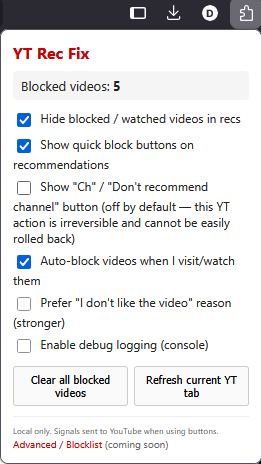
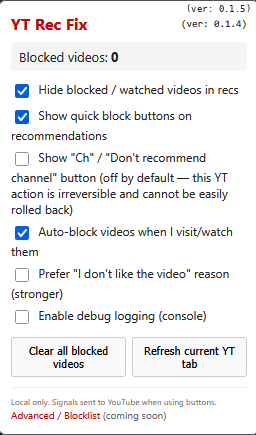
chore: bump to 0.1.5 + show addon version in popup header
- Bump version to 0.1.5 in manifest + package files
- Add version display '(ver: X.Y.Z)' top-right in popup (dynamically from manifest)
- Update images/addon_03.png screenshot to show the new version tag
- Expand README Usage section with popup screenshot + description of all settings/toggles
- Move detailed temporary addon loading instructions + common pitfalls (lingering .xpi conflicts, host permission grants, reload button, etc.) into Development section
- New build: dist/yt-rec-fix-0.1.5.zip

Changed region(s): [[0.0, 0.0, 1.0, 1.0], [0.9688, 0.9862, 1.0, 1.0]]

diff --git a/popup/popup.css b/popup/popup.css
@@ -10,10 +10,25 @@ body {
   padding: 12px;
 }
 
+.header {
+  display: flex;
+  justify-content: space-between;
+  align-items: center;
+  margin-bottom: 8px;
+}
+
 h1 {
   font-size: 16px;
-  margin: 0 0 8px;
+  margin: 0;
   color: #c00;
+}
+
+.version {
+  font-size: 10px;
+  color: #222;
+  font-family: monospace;
+  white-space: nowrap;
+  padding-left: 4px;
 }
 
 .stats {

diff --git a/popup/popup.html b/popup/popup.html
@@ -7,7 +7,10 @@
 </head>
 <body>
   <div class="popup">
-    <h1>YT Rec Fix</h1>
+    <div class="header">
+      <h1>YT Rec Fix</h1>
+      <span id="version" class="version"></span>
+    </div>
     <div class="stats">
       <div>Blocked videos: <strong id="blocked-count">0</strong></div>
     </div>

diff --git a/popup/popup.js b/popup/popup.js
@@ -16,6 +16,11 @@ async function setStorage(obj) {
 }
 
 async function loadUI() {
+  // Show current version (from manifest, always in sync)
+  const manifest = ext.runtime.getManifest();
+  const verEl = document.getElementById('version');
+  if (verEl) verEl.textContent = `(ver: ${manifest.version})`;
+
   const data = await getStorage([
     'blockedVideoIds',
     'settings'

diff --git a/README.md b/README.md
@@ -86,6 +86,22 @@ Tips for best results:
 - The addon still lets YouTube's own watched badges and progress work; we layer on top.
 - If YT changes their UI, buttons or automation may stop working temporarily — local hiding continues to function. Update selectors as needed (see content script).
 
+The toolbar icon opens a popup with stats and settings:
+
+<div align="center">
+  <img src="images/addon_03.png" width="70%" alt="Popup settings and toggles for the addon" />
+</div>
+
+This is the popup with settings and adjustments you can make for the addon:
+- **Blocked videos** count (live updating).
+- **Hide blocked / watched videos in recs** — master toggle for local hiding.
+- **Show quick block buttons on recommendations** — injects the Watched / Dislike / (Ch) buttons on rec cards.
+- **Show "Ch" / "Don't recommend channel" button** — off by default (irreversible YT action).
+- **Auto-block videos when I visit/watch them**.
+- **Prefer "I don't like the video" reason** (stronger negative signal).
+- **Enable debug logging (console)**.
+- Buttons to clear the blocklist or refresh the current YouTube tab.
+
 ## How it works (technical)
 - Content script + MutationObserver + periodic scan for robustness on a heavy SPA.
 - Video ID extraction from standard `a[href*="watch?v="]` links (11-char IDs).
@@ -121,9 +137,21 @@ See the plan.md (in session) or manually:
 - Support more surfaces (endscreen, shorts if desired).
 
 ## Development
+
+### Loading the Temporary Add-on (for development)
+
+See the "Install (Development / Temporary)" section above for basic steps.
+
+**Important notes and common pitfalls** (from real testing):
+- Make sure you completely remove any previously installed `.xpi` version of the addon first (same extension ID). Having both the signed `.xpi` and a temporary load active at the same time causes conflicts.
+- You will often see a green dot on the extension icon and messages like "Behörigheter behövs" / "Kör endast för detta besök" (Permissions needed / Only run for this visit).
+- The content script may not auto-inject on YouTube pages until you explicitly grant host permission: click the puzzle piece menu (or the addon icon) → find YT Rec Fix → click the cogwheel/settings → allow "Access your data for www.youtube.com" (or equivalent).
+- After granting, hard reload the YouTube tab. The addon should then work without having to click the addon icon after every page reload.
+- After editing files (especially popup), use the **Reload** button for the temporary addon in `about:debugging` to pick up the changes (popup HTML/CSS/JS changes are not always hot-reloaded automatically).
+- For a smoother dev experience: `npm install -g web-ext` and use `npm run dev` (or `web-ext run --firefox-desktop`).
+
 - Main logic lives in `content/yt-rec-fix.js` (will be the largest file).
-- Edit → reload addon in about:debugging (or web-ext).
-- Use the debug toggle + console.
+- Use the debug toggle in the popup + browser console for logs.
 - To inspect current YT menus: right-click a rec → Inspect, trigger the real 3-dot menu, look at the rendered `ytd-menu-popup-renderer`, `ytd-dismissal-follow-up-renderer`, checkboxes, etc. Update matching code accordingly.
 - Keep selectors defensive (arrays of fallbacks + text/SVG matching).
 